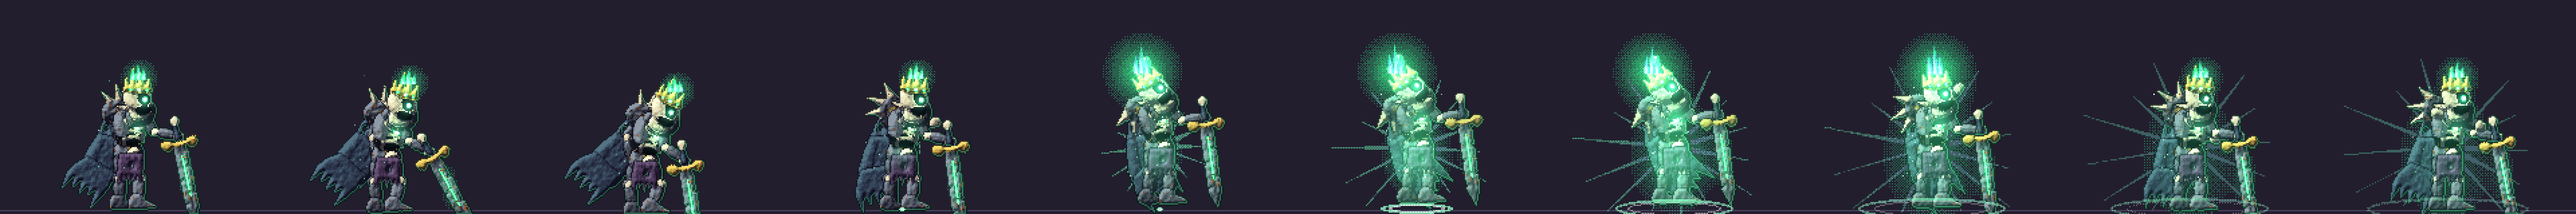
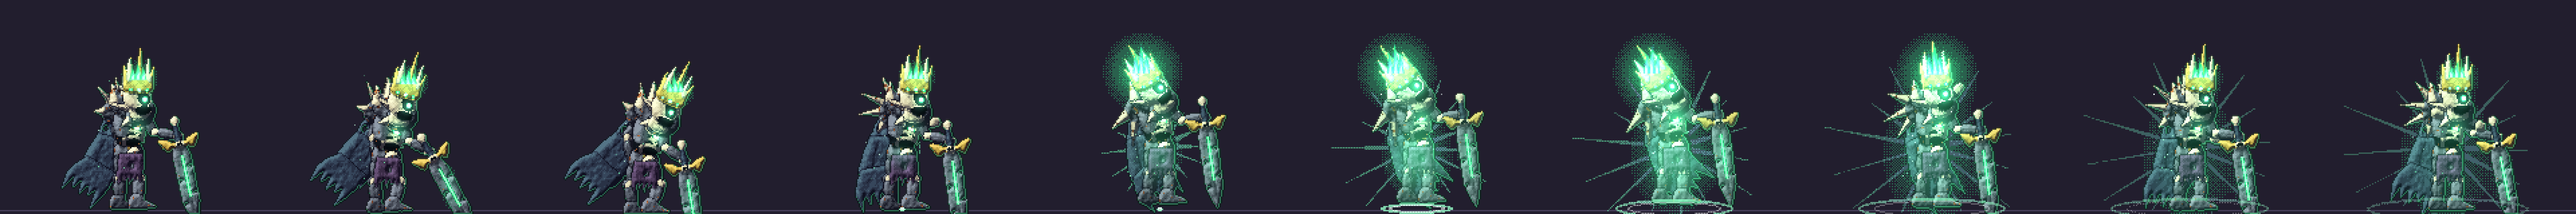
Jefes (piloto): Rey Exanime con corona alta de espinas, collar de pinchos, hombreras mayores y espadon con guarda
Claude-Session: https://claude.ai/code/session_011eeWNo3MRZcztybaatA5Az

diff --git a/tools/art_bosses/boss_rey.py b/tools/art_bosses/boss_rey.py
@@ -65,6 +65,14 @@ def build_parts():
     gorget.spl([(-6, -3), (4, -5), (11, -2), (13, 3), (4, 6), (-5, 4)])
     gorget.blotch('rust', 0.78, 2.2, 24)
     gorget.line([(-5, 2), (11, 0)], 0.8, op='tex', v=0.12)
+    col = add('collar', 'torso', (0, -27), z=8, mat='iron', depth=4.0, noise=0.5, seed=26)
+    col.spl([(-8, 4), (-16, -6), (-12, -9), (-14, -20), (-7, -12), (-6, -26), (1, -14), (6, -24), (9, -11), (13, -8), (13, 2), (4, 6)])
+    col.poly([(-16, -6), (-14, -20), (-10, -9), (-9, -4)], mat='bone', raise_=0.8, edge=0.1)
+    col.poly([(-7.5, -12), (-6, -26), (0, -14), (-2, -8)], mat='bone', raise_=0.8, edge=0.1)
+    col.poly([(4, -12), (6, -24), (10, -10), (8, -6)], mat='bone', raise_=0.8, edge=0.1)
+    col.line([(-9, 0), (11, -1)], 0.9, op='tex', v=0.12)
+    col.blotch('rust', 0.76, 2.4, 27)
+    col.cracks(2, 6, v=0.1, w=0.6, seed=28)
     tb = add('tabard', 'hip', (1, 4), z=5.5, mat='cloth2', depth=3.0, noise=0.4, seed=23)
     tb.poly([(-8, -1), (9, -1), (10, 9)] + rag(10, -9, 14, 5, 9, 2, 1) + [(-9, 8)])
     tb.hatch(2.0, 90, v=0.28, w=0.6, jit=0.3)
@@ -93,7 +101,10 @@ def build_parts():
         jw.poly([(1.4 + k * 1.75, -1.2), (2.9 + k * 1.75, -1.2), (2.4 + k * 1.75, 2.1), (1.6 + k * 1.75, 2.1)], mat='bone', raise_=0.7, edge=0.35)
     jw.line([(0, 3.5), (10, 3)], 0.8, op='tex', v=0.2)
     cr = add('crown', 'head', (1.5, -16), z=13, mat='gold', depth=2.6, noise=0.3, seed=33)
-    cr.spl([(-10, 4), (-10, 0), (-9, -6), (-6, -1), (-4, -13), (-1, -2), (2, -10), (5, -1), (8, -6), (10, 0), (11, 4), (0, 6)])
+    cr.spl([(-10, 4), (-10.6, -3), (-10.4, -15), (-6.2, -5), (-6.4, -22), (-1.6, -6), (1.4, -29), (4.6, -6), (7.8, -22), (8.0, -5),
+            (11.6, -15), (11.8, -3), (11, 4), (0, 6)])
+    cr.spl([(-8.6, -4), (-6.4, -21), (-4.2, -6)], mat='bone', raise_=0.6, edge=0.1)                 # puntas de hueso engarzadas
+    cr.spl([(6.2, -6), (7.8, -21), (9.4, -4)], mat='bone', raise_=0.6, edge=0.1)
     cr.line([(-10, 3), (11, 3)], 0.9, op='tex', v=0.12)
     cr.ell(1, 3, 1.5, 1.5, mat='soul'); cr.ell(1, 3, 1.2, 1.2, op='emit', v=1.0, soft=0.4)
     cr.ell(-5, 3, 1.1, 1.1, mat='soul'); cr.ell(-5, 3, 0.9, 0.9, op='emit', v=0.8, soft=0.3)
@@ -116,9 +127,10 @@ def build_parts():
         pf.spl([(-11, 5), (-11, -3), (-5, -9), (4, -9.5), (11, -4), (11, 4), (5, 9), (-3, 9)])
         pf.line([(-9, 1), (-2, -4), (8, -3)], 0.9, op='tex', v=0.1)
         pf.line([(-9, 4.5), (0, 7), (9, 3.5)], 0.9, op='tex', v=0.1)
-        pf.poly([(-8, -6), (-14, -16), (-3, -9)], mat='bone', raise_=0.8, edge=0.1)
-        pf.poly([(-2, -9), (-3, -22), (4, -9.5)], mat='bone', raise_=0.8, edge=0.1)
-        pf.poly([(5, -8.5), (13, -17), (11.5, -3)], mat='bone', raise_=0.8, edge=0.1)
+        pf.poly([(-8, -6), (-17, -20), (-3, -9)], mat='bone', raise_=0.8, edge=0.1)
+        pf.poly([(-11, 3), (-19, 0), (-10, -4)], mat='bone', raise_=0.8, edge=0.1)
+        pf.poly([(-2, -9), (-3, -27), (4, -9.5)], mat='bone', raise_=0.8, edge=0.1)
+        pf.poly([(5, -8.5), (16, -21), (11.5, -3)], mat='bone', raise_=0.8, edge=0.1)
         pf.ell(1, 0, 3.0, 3.0, mat='gold', raise_=1.0, edge=0.08)
         pf.ell(1, 0, 1.2, 1.2, mat='soul')
         pf.blotch('rust', 0.74, 2.2, 45)
@@ -143,12 +155,14 @@ def build_parts():
     c3.hatch(2.4, 76, v=0.28, w=0.6, jit=0.4)
     # ---------------- espadon
     sw = add('sword', 'hand_f', (0, 2), z=10.5, mat='iron', depth=3.0, noise=0.4, seed=50)
-    sw.poly([(-3.4, 5), (3.4, 5), (5, 12), (4.8, 54), (0, 66), (-4.8, 54), (-5, 12)])
+    sw.poly([(-4.2, 5), (4.2, 5), (6.8, 14), (6.6, 50), (2.6, 62), (0, 67), (-2.6, 62), (-6.6, 50), (-6.8, 14)])
     sw.line([(0, 10), (0, 56)], 1.6, op='tex', v=0.12)
     sw.line([(1.6, 12), (1.6, 52)], 0.8, op='tex', v=0.99)
     sw.poly([(-7, 4), (7, 4), (7, 7.5), (-7, 7.5)], mat='gold', raise_=1.0, edge=0.1)
-    sw.spl([(-12, 2), (-6, 3), (-6, 8), (-10, 10), (-14, 6)], mat='gold', raise_=0.9, edge=0.1)
-    sw.spl([(12, 2), (6, 3), (6, 8), (10, 10), (14, 6)], mat='gold', raise_=0.9, edge=0.1)
+    sw.spl([(-14, 0), (-6, 3), (-6, 8), (-10, 10), (-15, 3)], mat='gold', raise_=0.9, edge=0.1)
+    sw.spl([(14, 0), (6, 3), (6, 8), (10, 10), (15, 3)], mat='gold', raise_=0.9, edge=0.1)
+    sw.ell(0, 6, 3.4, 3.2, mat='bone', raise_=1.2, edge=0.1)
+    sw.ell(-1.2, 5.8, 0.9, 1.1, mat='void'); sw.ell(1.2, 5.8, 0.9, 1.1, mat='void')
     sw.poly([(-1.1, 14), (1.1, 14), (1.1, 46), (-1.1, 46)], mat='soul')
     sw.line([(0, 14), (0, 46)], 1.2, op='emit', v=0.8, soft=0.5)
     sw.blotch('rust', 0.78, 2.2, 51)
